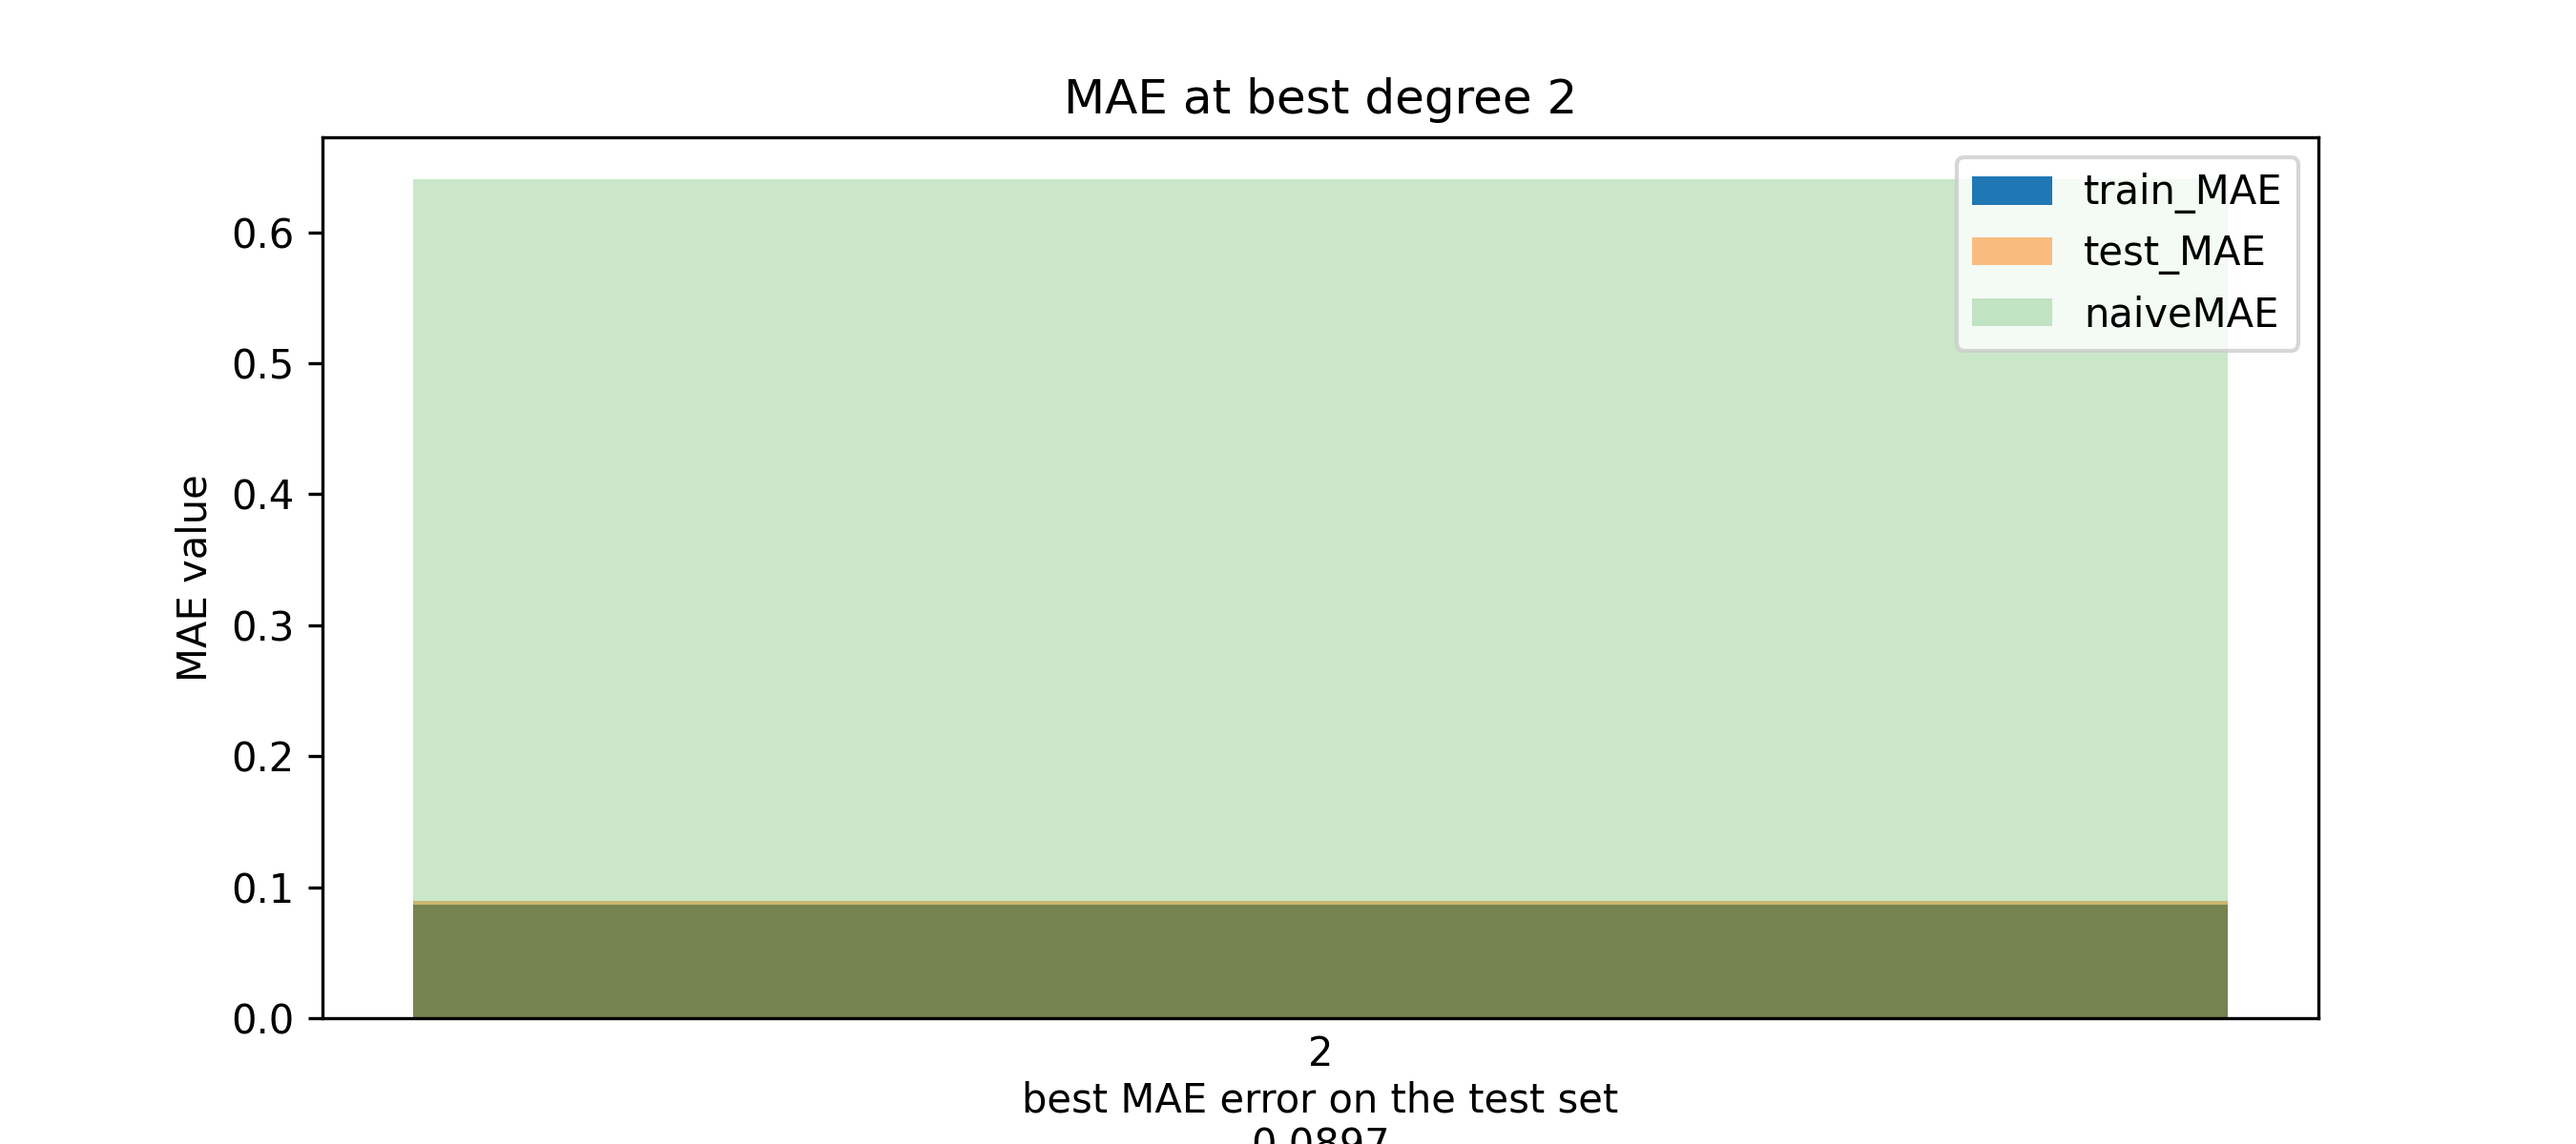
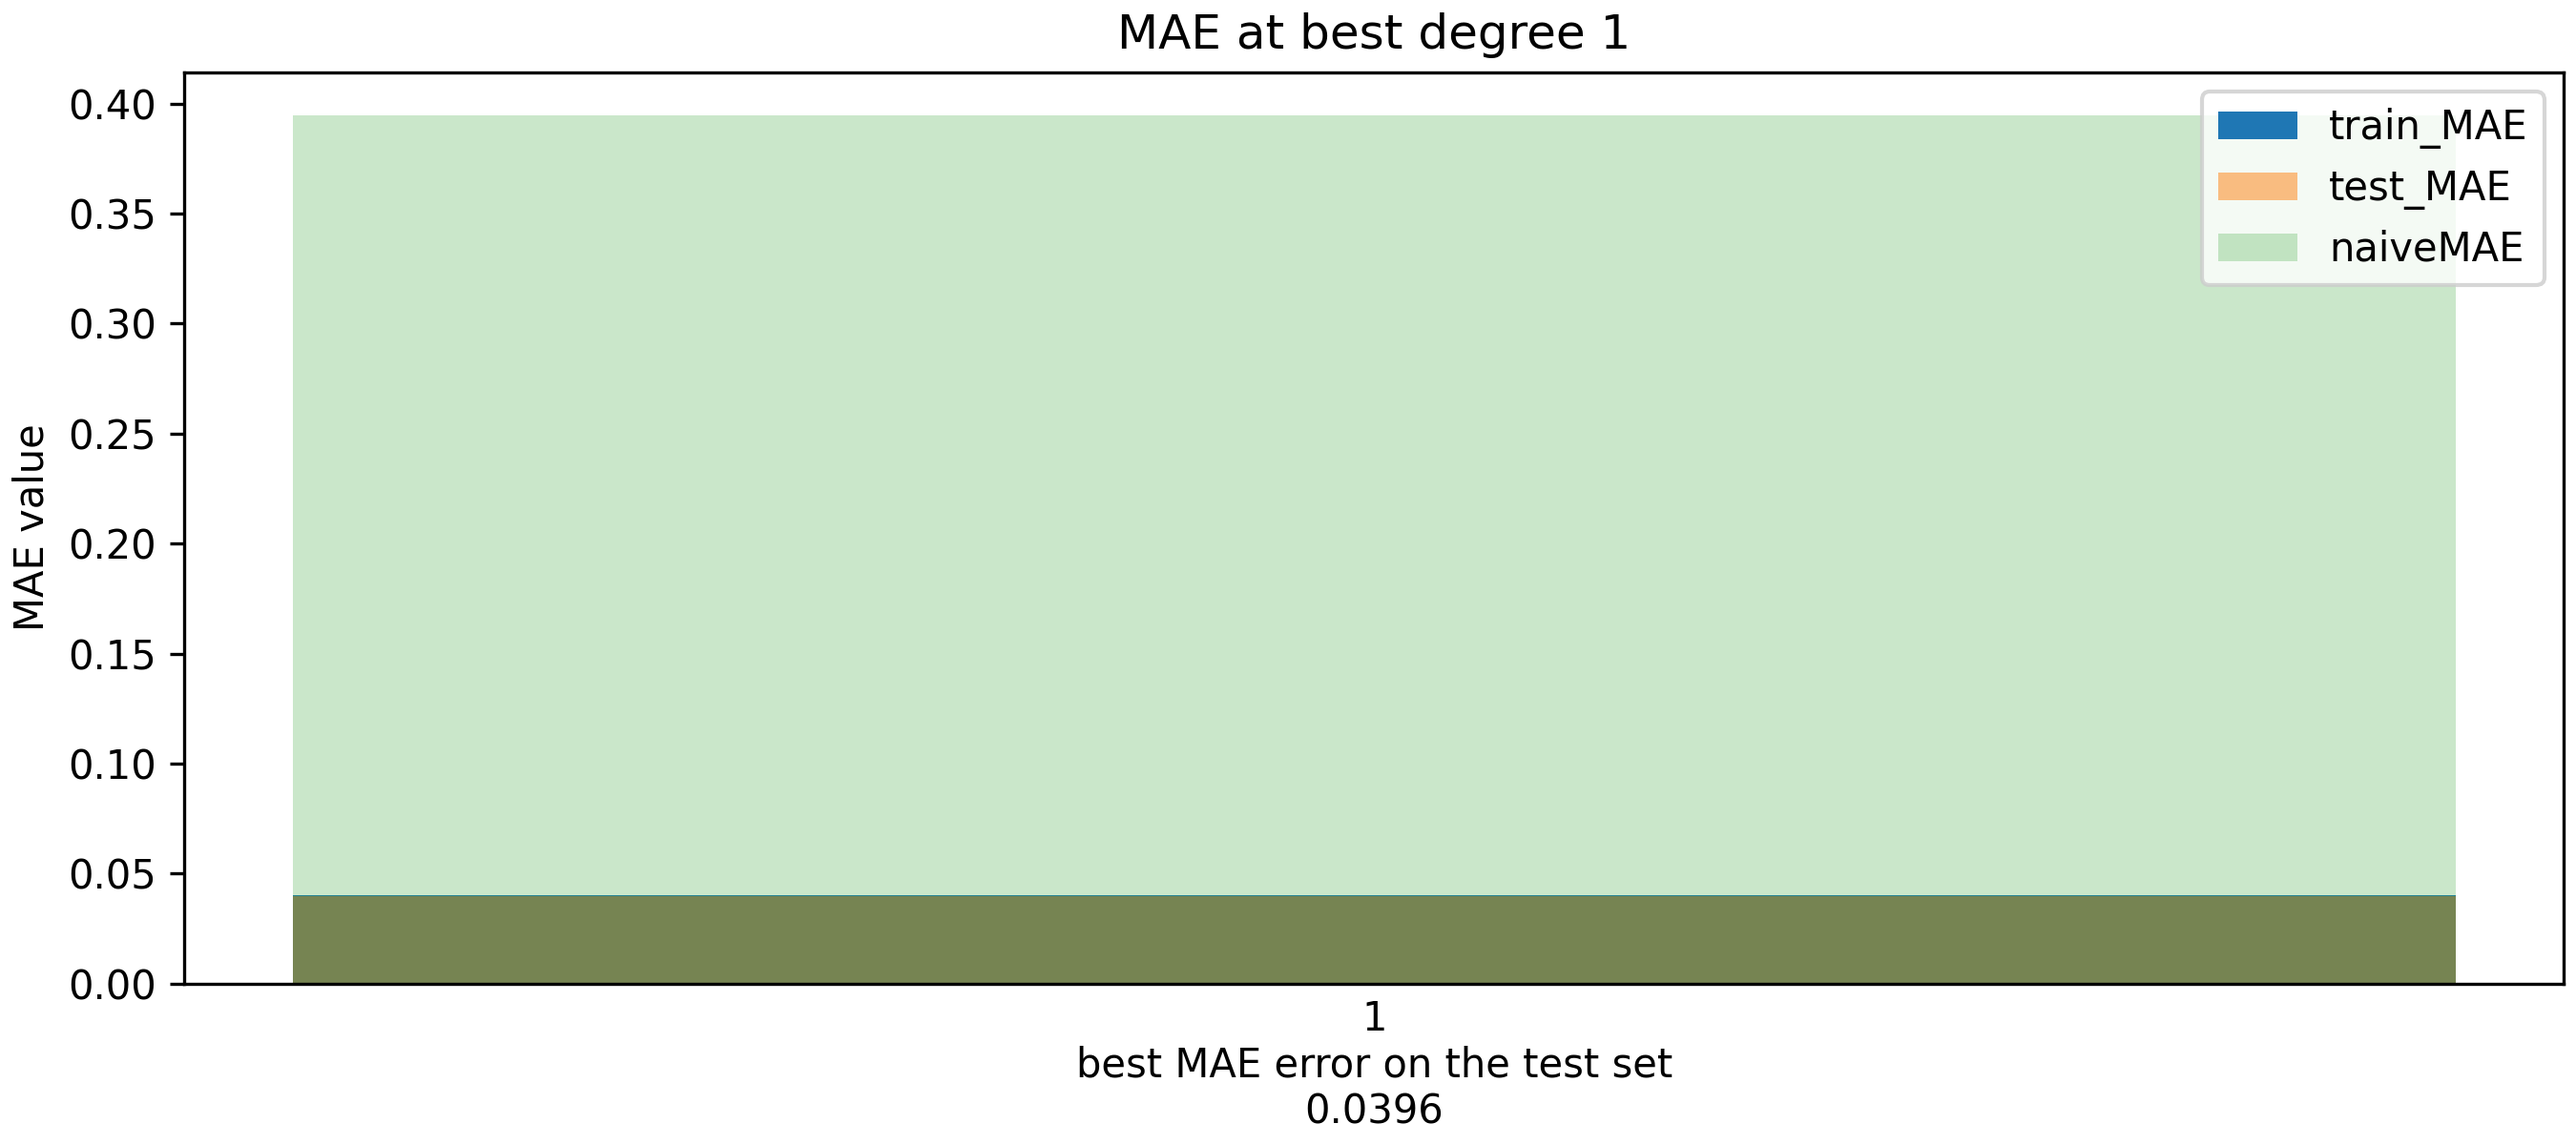
final commit

Changed region(s): [[0.0, 0.0, 1.0, 1.0], [0.0311, 0.74, 0.0622, 0.7708], [0.0311, 0.2775, 0.0622, 0.3083]]

diff --git a/templates/images.html b/templates/images.html
@@ -4,17 +4,26 @@
     <title>Regression Graphs</title>
 </head>
 <body>
+<style>
+#graphs {
+    overflow: visible;
+    margin: 20px;
+    align-items: center;
+}
+.img{
+    height: auto;
+    display: block;
+    margin-bottom: 30px;
+}
 
+</style>
 <h1>Generated Graphs</h1>
-
-<img src="{{ url_for('static', filename='plots/best_graph.png') }}" width="800">
-<br><br>
-<img src="{{ url_for('static', filename='plots/MAE_Bar_Chart.png') }}" width="800">
-<br><br>
-
-<img src="{{ url_for('static', filename='plots/RSME_Bar_Chart.png') }}" width="800">
-
-<br><br>
+<div id = "graphs">
+    <p>Graphs for the regression analysis are displayed below:</p>
+<img src="{{ url_for('static', filename='plots/best_graph.png') }}" width="800" class="img">
+<img src="{{ url_for('static', filename='plots/MAE_Bar_Chart.png') }}" width="800" class="img">
+<img src="{{ url_for('static', filename='plots/RSME_Bar_Chart.png') }}" width="800" class="img">
+</div>
 <a href="{{ url_for('home') }}">Back</a>
 
 </body>

diff --git a/templates/index.html b/templates/index.html
@@ -31,7 +31,7 @@
 <body>
   <div class="container">
     <form action="/submit" method="POST">
-    <h2>Please select the crypo currncies you want to predict</h2>
+    <h2>Please select the crypo currency you want to predict</h2>
 
     <input 
       type="text" 

diff --git a/linear-regression.py b/linear-regression.py
@@ -3,6 +3,7 @@ import matplotlib.pyplot as plt
 import pandas as pd 
 from sklearn.pipeline import Pipeline
 from sklearn.preprocessing import PolynomialFeatures
+from sklearn.preprocessing import StandardScaler
 import preprocess
 import sys
 
@@ -83,8 +84,8 @@ def predictionVals_Plot_DictOfErrors(prediction_points):
     for i in range(len(polynomial_degrees)):
         polynomial_features_train = PolynomialFeatures(degree=polynomial_degrees[i], include_bias=False)
         linear_regression_model_train = RidgeCV(alphas=alphas_to_test)
-        pipeline_on_training_data = Pipeline([("polynomial_features", polynomial_features_train), ("linear_regression", linear_regression_model_train)])                                                                                                                 
-        X_train2, X_test2, y_train2, y_test2 = train_test_split(X[:, feature_indecies], y, test_size=0.3, random_state=67, shuffle=True)
+        pipeline_on_training_data = Pipeline([("polynomial_features", polynomial_features_train), ("linear_regression", linear_regression_model_train), ("scaler", StandardScaler())])                                                                                                                 
+        X_train2, X_test2, y_train2, y_test2 = train_test_split(X[:, feature_indecies], y, test_size=0.3, random_state=67, shuffle=False)
         pipeline_on_training_data.fit(X_train2, y_train2)
         y_pred_train2 = pipeline_on_training_data.predict(X_train2)
         y_pred_test2 = pipeline_on_training_data.predict(X_test2)
@@ -135,13 +136,13 @@ def predictionVals_Plot_DictOfErrors(prediction_points):
         
         poly_features_best = PolynomialFeatures(degree=best_degree, include_bias=False)
         linear_reg_best = RidgeCV(alphas=alphas_to_test)
-        pipeline_best = Pipeline([("polynomial_features", poly_features_best), ("linear_regression", linear_reg_best)])
+        pipeline_best = Pipeline([("polynomial_features", poly_features_best), ("linear_regression", linear_reg_best), ("scaler", StandardScaler())])
         
-        X_train_best, X_test_best, y_train_best, y_test_best = train_test_split(X[:, feature_indecies], y, test_size=0.3, random_state=67, shuffle=True)
+        X_train_best, X_test_best, y_train_best, y_test_best = train_test_split(X[:, feature_indecies], y, test_size=0.3, random_state=67, shuffle=False)
         
         pipeline_best.fit(X_train_best, y_train_best)
     
-        plt.figure(figsize=(20,10))
+        plt.figure(figsize=(20,10), constrained_layout=True)
         
         ax = plt.subplot(1,1,1)
         ax.set_xlabel('x')
@@ -158,15 +159,15 @@ def predictionVals_Plot_DictOfErrors(prediction_points):
         y_max = max(np.max(y), np.max(LOBF_best), np.max(y_test_best), np.max(prediction_vals))
         ax.set_xlim(min_x, max_x)
         ax.set_ylim(y_min, y_max)
-        
-        ax.set_xlabel(f'days in the future')
+
+        ax.set_xlabel(f"best degree: {best_degree}\nbest MAE error on the test set: {best_row['test_MAE']}")
         ax.set_ylabel('value of the target')
         ax.legend()
         ax.set_title(currency_we_want_to_look_at)
         ax.grid() 
         
         best_fit_plot = plt.gcf()
-        fig_rmse, ax_rmse = plt.subplots(1, 1, figsize=(9, 4)) 
+        fig_rmse, ax_rmse = plt.subplots(1, 1, figsize=(9, 4), constrained_layout=True) 
         ax_rmse.bar(best_row['deg'], best_row['train_RMSE'], label='train_RMSE', alpha=1)
         ax_rmse.bar(best_row['deg'], best_row['test_RMSE'], label='test_RMSE', alpha=0.5)
         ax_rmse.bar(best_row['deg'], best_row['naiveMAE'], label='naiveMAE', alpha=0.25)
@@ -176,7 +177,7 @@ def predictionVals_Plot_DictOfErrors(prediction_points):
         ax_rmse.set_ylabel('RMSE value')
         ax_rmse.legend()
 
-        fig_mae, ax_mae = plt.subplots(1, 1, figsize=(9, 4)) 
+        fig_mae, ax_mae = plt.subplots(1, 1, figsize=(9, 4), constrained_layout=True) 
         ax_mae.bar(best_row['deg'], best_row['train_MAE'], label='train_MAE', alpha=1)
         ax_mae.bar(best_row['deg'], best_row['test_MAE'], label='test_MAE', alpha=0.5)
         ax_mae.bar(best_row['deg'], best_row['naiveMAE'], label='naiveMAE', alpha=0.25)
@@ -199,9 +200,13 @@ prediction_vals, train_and_test_errors_at_given_degree, best_graph, RMSE_bar_cha
 print(f"\nPredicted closing price in {HORIZON} days: {float(prediction_vals[0]):.6f}")
 with open("prediction.txt", "w") as f:
     f.write(f'{prediction_vals[0]:.6f}')
-best_graph.savefig("static/plots/best_graph.png")
-RMSE_bar_chart.savefig("static/plots/RSME_Bar_Chart")
-MAE_bar_chart.savefig("static/plots/MAE_Bar_Chart")
+best_graph.subplots_adjust(bottom=0.32)
+RMSE_bar_chart.subplots_adjust(bottom=0.32)
+MAE_bar_chart.subplots_adjust(bottom=0.32)
+
+best_graph.savefig("static/plots/best_graph.png", dpi=300)
+RMSE_bar_chart.savefig("static/plots/RSME_Bar_Chart.png", dpi=300)
+MAE_bar_chart.savefig("static/plots/MAE_Bar_Chart.png", dpi=300)
 
 
 

diff --git a/preprocess.py b/preprocess.py
@@ -2,6 +2,9 @@ import pandas as pd
 import kagglehub
 from kagglehub import KaggleDatasetAdapter
 import numpy as np
+import sklearn
+from sklearn.preprocessing import StandardScaler
+
 # list of all files the user can choose from. This will be chosen from the user front end
 potential_files = [
     "1INCH.csv",
